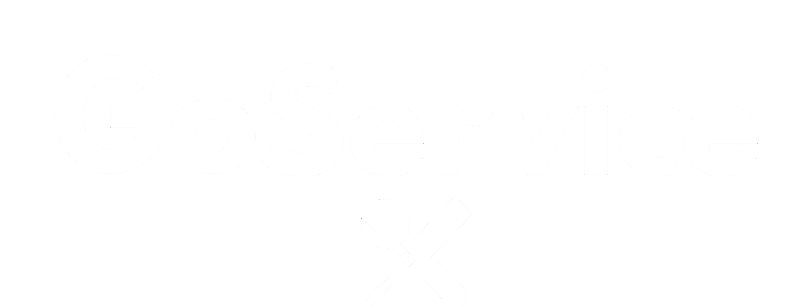
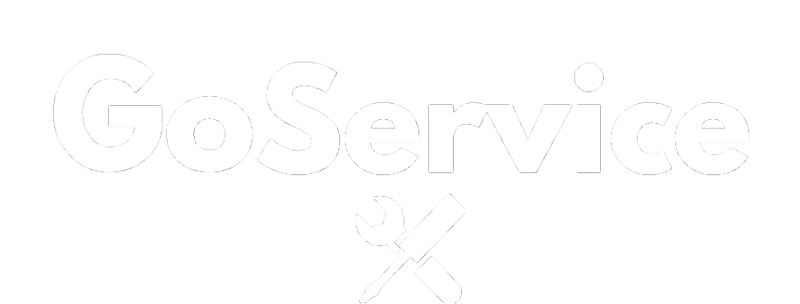
Criacao da navBar e resolvendo bug da imagem e uma rota

diff --git a/templates/base_servicos.html b/templates/base_servicos.html
@@ -10,13 +10,20 @@
 </head>
 <body>
     <header>
-            <div class="container-fluid">
-              <div class="collapse navbar-collapse" id="navbarNav">
-              </div>
+        <nav class="navbar navbar-expand-md navbar-dark bg-dark p-lg-2">
+            <a class="navbar-brand" href="#">GoService  </a>
+            <button class="navbar-toggler" type="button" data-toggle="collapse" data-target="#navbarSupportedContent" aria-controls="navbarSupportedContent" aria-expanded="false" aria-label="Toggle navigation">
+              <span class="navbar-toggler-icon"></span>
+            </button>
+          
+            <div class="collapse navbar-collapse justify-content-end" id="navbarSupportedContent">
+              <ul class="navbar-nav mr-auto">
+              </ul>
+                <a class="btn filho__container__encanador my-2 my-sm-0" style="padding: 6px 16px !important;font-size: 12px; border-radius: 10px; border: solid 1.5px">Usuario</a>
             </div>
           </nav>
     </header>
-    <div class="container pt 3">
+    <div class="">
         {% with messages=get_flashed_messages(with_categories=true) %}
             {% if messages %}
                 {% for category, message in messages %}
@@ -25,8 +32,10 @@
             {% endif %}
         {% endwith %}
         {% block body %}
+        
 
         {% endblock %}
     </div>
+    
 </body>
 </html>

diff --git a/templates/inicial_01.html b/templates/inicial_01.html
@@ -13,7 +13,7 @@
         </div>
         <div class="inicial__pai__imagens__usuarios">
             <img class="inicial__filho__imagens__usuarios" src="{{ url_for('static', filename='img/cliente.png')}}" alt="">
-            <img class="inicial__filho__imagens__usuarios" src="{{ url_for('static', filename='img/Profissional.png')}}" alt="">
+            <img class="inicial__filho__imagens__usuarios" src="{{ url_for('static', filename='img/profissional.png')}}" alt="">
         </div>
         <div class="inicial__pai__opcoes">
             <a href="#">

diff --git a/templates/escolha_servicos.html b/templates/escolha_servicos.html
@@ -7,10 +7,11 @@
 {% endblock %}
 
 {% block body %}
+
     <section>
         <div class="inicial__pai__logo">
             <img class="inicial__filho__logo" src="{{ url_for('static', filename='img/goservicebr.png')}}" alt="Logo da Empresa GoService">
-            <p class="text-right"><a href="{{url_for('edit_user', idCli=dados.ID_clientes)}}" class="btn btn-success">+Editar perfil</a></p>
+            
 
         </div>
     </section>

diff --git a/app.py b/app.py
@@ -110,7 +110,7 @@ def delete_user(idCli):
 #---------- Rota cliente escolha serviço ----------
 @app.route('/escolha_servico')
 def escolhaServico():
-    return render_template('escolha_servicos.html')
+    return render_template('escolha_servicos.html',dados="")
 
 
 
